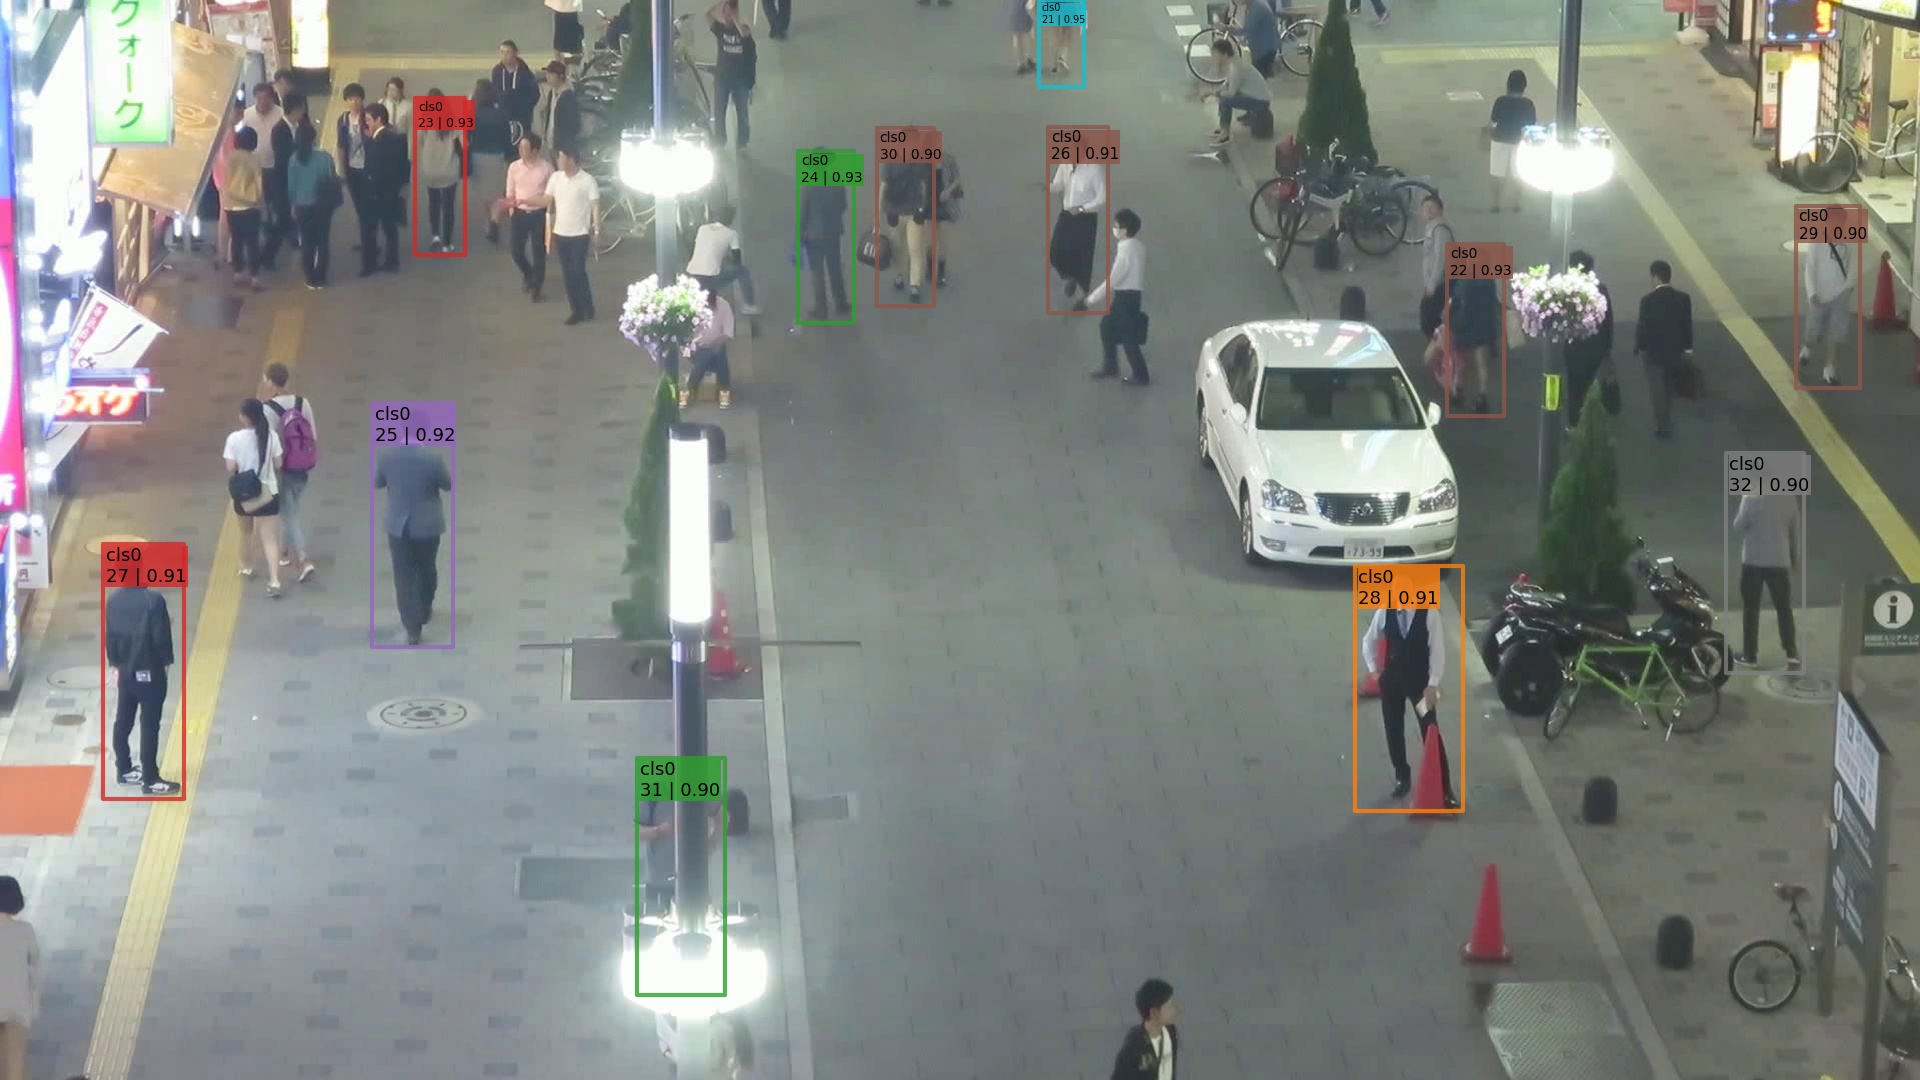
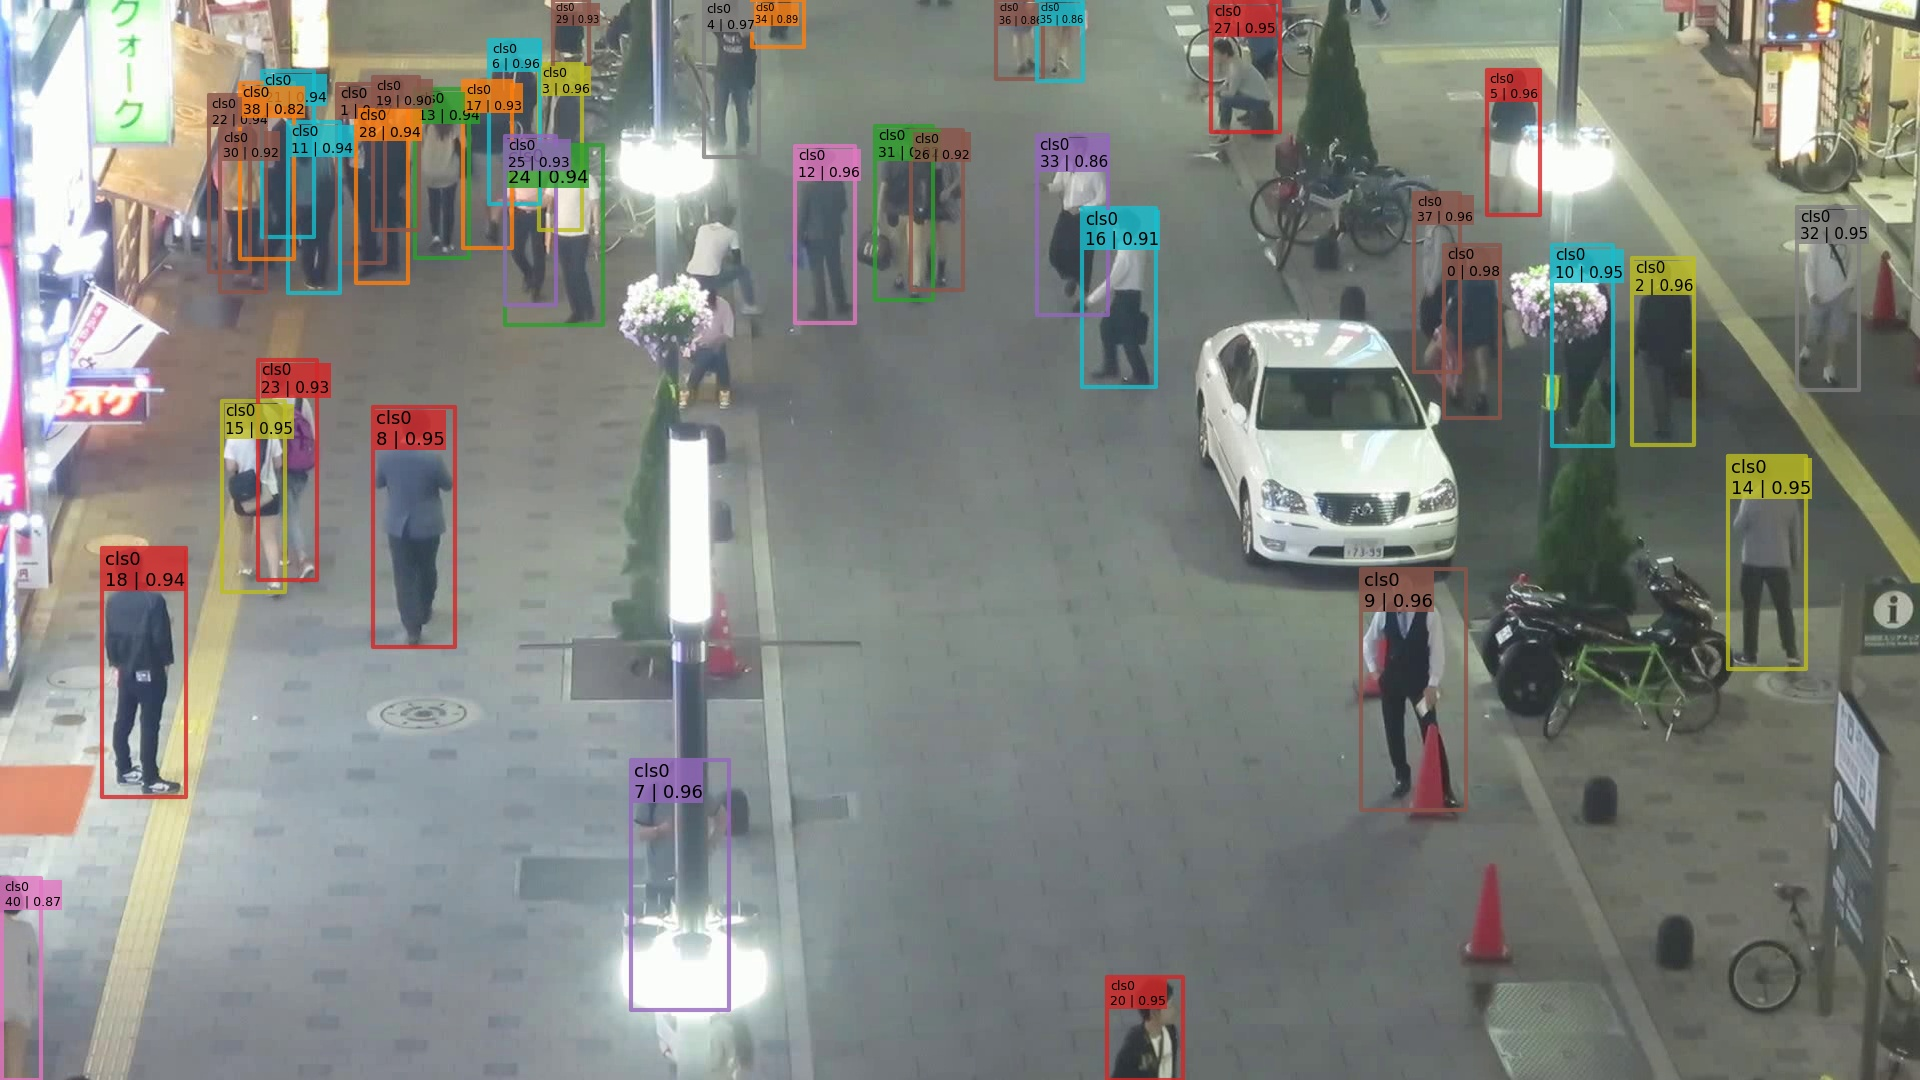
add mmyolo augmentation

diff --git a/configs/det/yolov7_l1_syncbn_fast_mot17.py b/configs/det/yolov7_l1_syncbn_fast_mot17.py
@@ -1,0 +1,260 @@
+_base_ = '../_base_/mmyolo_default_runtime.py'
+
+# parameters that often need to be modified
+img_scale = (1088, 1088)  # width, height
+
+# dataset settings
+data_root = 'data/MOT17/'
+dataset_type = 'YOLOv5CocoDataset'
+max_epochs = 30
+batch_size = 8
+train_num_workers = 4
+val_num_workers = 2
+save_epoch_intervals = 10
+persistent_workers = True
+
+# only on Val
+batch_shapes_cfg = dict(
+    type='BatchShapePolicy',
+    batch_size=1,
+    img_size=img_scale[0],
+    size_divisor=32,
+    extra_pad_ratio=0.5)
+
+# different from yolov5
+anchors = [
+    [(19, 27), (44, 40), (38, 94)],  # P3/8
+    [(96, 68), (86, 152), (180, 137)],  # P4/16
+    [(140, 301), (303, 264), (238, 542)],  # P5/32
+]
+strides = [8, 16, 32]
+num_det_layers = 3
+num_classes = 1
+
+# single-scale training is recommended to
+# be turned on, which can speed up training.
+env_cfg = dict(cudnn_benchmark=True)
+
+model = dict(
+    type='YOLODetector',
+    _scope_='mmyolo',
+    backbone=dict(
+        type='YOLOv7Backbone',
+        arch='L',
+        norm_cfg=dict(type='BN', momentum=0.03, eps=0.001),
+        act_cfg=dict(type='SiLU', inplace=True)),
+    neck=dict(
+        type='YOLOv7PAFPN',
+        block_cfg=dict(
+            type='ELANBlock',
+            middle_ratio=0.5,
+            block_ratio=0.25,
+            num_blocks=4,
+            num_convs_in_block=1),
+        upsample_feats_cat_first=False,
+        in_channels=[512, 1024, 1024],
+        # The real output channel will be multiplied by 2
+        out_channels=[128, 256, 512],
+        norm_cfg=dict(type='BN', momentum=0.03, eps=0.001),
+        act_cfg=dict(type='SiLU', inplace=True)),
+    bbox_head=dict(
+        type='YOLOv7Head',
+        head_module=dict(
+            type='YOLOv7HeadModule',
+            num_classes=num_classes,
+            in_channels=[256, 512, 1024],
+            featmap_strides=strides,
+            num_base_priors=3),
+        prior_generator=dict(
+            type='mmdet.YOLOAnchorGenerator',
+            base_sizes=anchors,
+            strides=strides),
+        # scaled based on number of detection layers
+        loss_cls=dict(
+            type='mmdet.CrossEntropyLoss',
+            use_sigmoid=True,
+            reduction='mean',
+            loss_weight=0),
+        loss_bbox=dict(
+            type='IoULoss',
+            iou_mode='ciou',
+            bbox_format='xywh',
+            reduction='mean',
+            loss_weight=0.1,
+            return_iou=True),
+        loss_obj=dict(
+            type='mmdet.CrossEntropyLoss',
+            use_sigmoid=True,
+            reduction='mean',
+            loss_weight=1.0),
+        obj_level_weights=[4., 1., 0.4],
+        # BatchYOLOv7Assigner params
+        prior_match_thr=4.,
+        simota_candidate_topk=10,
+        simota_iou_weight=3.0,
+        simota_cls_weight=1.0),
+    test_cfg=dict(
+        multi_label=False,
+        nms_pre=30000,
+        score_thr=0.01,
+        nms=dict(type='nms', iou_threshold=0.65),
+        max_per_img=300))
+
+pre_transform = [
+    dict(type='LoadImageFromFile'),
+    dict(type='LoadAnnotations', with_bbox=True)
+]
+
+mosiac4_pipeline = [
+    dict(
+        type='Mosaic',
+        img_scale=img_scale,
+        pad_val=114.0,
+        pre_transform=pre_transform),
+    dict(
+        type='YOLOv5RandomAffine',
+        max_rotate_degree=0.0,
+        max_shear_degree=0.0,
+        max_translate_ratio=0.2,  # note
+        scaling_ratio_range=(0.1, 2.0),  # note
+        # img_scale is (width, height)
+        border=(-img_scale[0] // 2, -img_scale[1] // 2),
+        border_val=(114, 114, 114)),
+]
+
+mosiac9_pipeline = [
+    dict(
+        type='Mosaic9',
+        img_scale=img_scale,
+        pad_val=114.0,
+        pre_transform=pre_transform),
+    dict(
+        type='YOLOv5RandomAffine',
+        max_rotate_degree=0.0,
+        max_shear_degree=0.0,
+        max_translate_ratio=0.2,  # note
+        scaling_ratio_range=(0.1, 2.0),  # note
+        # img_scale is (width, height)
+        border=(-img_scale[0] // 2, -img_scale[1] // 2),
+        border_val=(114, 114, 114)),
+]
+
+randchoice_mosaic_pipeline = dict(
+    type='RandomChoice',
+    transforms=[mosiac4_pipeline, mosiac9_pipeline],
+    prob=[0.8, 0.2])
+
+train_pipeline = [
+    *pre_transform,
+    randchoice_mosaic_pipeline,
+    dict(
+        type='YOLOv5MixUp',
+        alpha=8.0,  # note
+        beta=8.0,  # note
+        prob=0.15,
+        pre_transform=[*pre_transform, randchoice_mosaic_pipeline]),
+    dict(type='YOLOv5HSVRandomAug'),
+    dict(type='mmdet.RandomFlip', prob=0.5),
+    dict(
+        type='mmdet.PackDetInputs',
+        meta_keys=('img_id', 'img_path', 'ori_shape', 'img_shape', 'flip',
+                   'flip_direction'))
+]
+
+train_dataloader = dict(
+    batch_size=batch_size,
+    num_workers=train_num_workers,
+    persistent_workers=persistent_workers,
+    pin_memory=True,
+    sampler=dict(type='DefaultSampler', shuffle=True),
+    collate_fn=dict(type='yolov5_collate'),  # FASTER
+    dataset=dict(
+        type=dataset_type,
+        data_root=data_root,
+        ann_file='annotations/half-train_cocoformat.json',
+        data_prefix=dict(img='train/'),
+        metainfo=dict(classes=('pedestrian', )),
+        filter_cfg=dict(filter_empty_gt=False, min_size=32),
+        pipeline=train_pipeline))
+
+test_pipeline = [
+    dict(type='LoadImageFromFile', file_client_args=_base_.file_client_args),
+    dict(type='YOLOv5KeepRatioResize', scale=img_scale),
+    dict(
+        type='LetterResize',
+        scale=img_scale,
+        allow_scale_up=False,
+        pad_val=dict(img=114)),
+    dict(type='LoadAnnotations', with_bbox=True, _scope_='mmdet'),
+    dict(
+        type='mmdet.PackDetInputs',
+        meta_keys=('img_id', 'img_path', 'ori_shape', 'img_shape',
+                   'scale_factor', 'pad_param'))
+]
+
+val_dataloader = dict(
+    batch_size=1,
+    num_workers=val_num_workers,
+    persistent_workers=persistent_workers,
+    pin_memory=True,
+    drop_last=False,
+    sampler=dict(type='DefaultSampler', shuffle=False),
+    dataset=dict(
+        type=dataset_type,
+        data_root=data_root,
+        test_mode=True,
+        data_prefix=dict(img='train/'),
+        ann_file='annotations/half-val_cocoformat.json',
+        pipeline=test_pipeline,
+        batch_shapes_cfg=batch_shapes_cfg))
+
+test_dataloader = val_dataloader
+
+param_scheduler = None
+optim_wrapper = dict(
+    type='OptimWrapper',
+    optimizer=dict(
+        type='SGD',
+        lr=0.001,
+        momentum=0.937,
+        weight_decay=0.0005,
+        nesterov=True),
+    constructor='YOLOv7OptimWrapperConstructor')
+
+default_hooks = dict(
+    param_scheduler=dict(
+        type='YOLOv5ParamSchedulerHook',
+        scheduler_type='cosine',
+        lr_factor=0.01,  # note
+        max_epochs=max_epochs),
+    checkpoint=dict(
+        type='CheckpointHook',
+        save_param_scheduler=False,
+        interval=1,
+        save_best='auto',
+        max_keep_ckpts=3))
+
+val_evaluator = dict(
+    type='mmdet.CocoMetric',
+    proposal_nums=(100, 1, 10),  # Can be accelerated
+    ann_file=data_root + 'annotations/half-val_cocoformat.json',
+    metric='bbox')
+test_evaluator = val_evaluator
+
+train_cfg = dict(
+    type='EpochBasedTrainLoop',
+    max_epochs=max_epochs,
+    val_interval=save_epoch_intervals)
+
+custom_hooks = [
+    dict(
+        type='EMAHook',
+        ema_type='ExpMomentumEMA',
+        momentum=0.0001,
+        update_buffers=True,
+        strict_load=False,
+        priority=49)
+]
+
+val_cfg = dict(type='ValLoop')
+test_cfg = dict(type='TestLoop')

diff --git a/configs/_base_/models/yolov7_l1_syncbn_fast.py b/configs/_base_/models/yolov7_l1_syncbn_fast.py
@@ -3,9 +3,9 @@ img_scale = (1088, 1088)  # width, height
 
 # different from yolov5
 anchors = [
-    [(12, 16), (19, 36), (40, 28)],  # P3/8
-    [(36, 75), (76, 55), (72, 146)],  # P4/16
-    [(142, 110), (192, 243), (459, 401)]  # P5/32
+    [(19, 27), (44, 40), (38, 94)],  # P3/8
+    [(96, 68), (86, 152), (180, 137)],  # P4/16
+    [(140, 301), (303, 264), (238, 542)],  # P5/32
 ]
 strides = [8, 16, 32]
 num_det_layers = 3
@@ -17,7 +17,6 @@ model = dict(
         mean=[0., 0., 0.],
         std=[255., 255., 255.],
         bgr_to_rgb=True,
-        rgb_to_bgr=False,
         pad_size_divisor=32),
     detector=dict(
         type='YOLODetector',
@@ -53,24 +52,6 @@ model = dict(
                 type='mmdet.YOLOAnchorGenerator',
                 base_sizes=anchors,
                 strides=strides),
-            # scaled based on number of detection layers
-            loss_cls=dict(
-                type='mmdet.CrossEntropyLoss',
-                use_sigmoid=True,
-                reduction='mean',
-                loss_weight=0.3 * (num_classes / 80 * 3 / num_det_layers)),
-            loss_bbox=dict(
-                type='IoULoss',
-                iou_mode='ciou',
-                bbox_format='xywh',
-                reduction='mean',
-                loss_weight=0.05 * (3 / num_det_layers),
-                return_iou=True),
-            loss_obj=dict(
-                type='mmdet.CrossEntropyLoss',
-                use_sigmoid=True,
-                reduction='mean',
-                loss_weight=0.7 * ((img_scale[0] / 640)**2 * 3 / num_det_layers)),
             obj_level_weights=[4., 1., 0.4],
             # BatchYOLOv7Assigner params
             prior_match_thr=4.,
@@ -81,5 +62,5 @@ model = dict(
             multi_label=False,
             nms_pre=30000,
             score_thr=0.01,
-            nms=dict(type='nms', iou_threshold=0.65),
+            nms=dict(type='nms', iou_threshold=0.5),
             max_per_img=300)))

diff --git a/configs/_base_/mmyolo_default_runtime.py b/configs/_base_/mmyolo_default_runtime.py
@@ -1,0 +1,28 @@
+default_scope = 'mmyolo'
+
+default_hooks = dict(
+    timer=dict(type='IterTimerHook'),
+    logger=dict(type='LoggerHook', interval=50),
+    param_scheduler=dict(type='ParamSchedulerHook'),
+    checkpoint=dict(type='CheckpointHook', interval=1),
+    sampler_seed=dict(type='DistSamplerSeedHook'),
+    visualization=dict(type='mmdet.DetVisualizationHook'))
+
+env_cfg = dict(
+    cudnn_benchmark=False,
+    mp_cfg=dict(mp_start_method='fork', opencv_num_threads=0),
+    dist_cfg=dict(backend='nccl'),
+)
+
+vis_backends = [dict(type='LocalVisBackend')]
+visualizer = dict(
+    type='mmdet.DetLocalVisualizer',
+    vis_backends=vis_backends,
+    name='visualizer')
+log_processor = dict(type='LogProcessor', window_size=50, by_epoch=True)
+
+log_level = 'INFO'
+load_from = None
+resume = False
+
+file_client_args = dict(backend='disk')

diff --git a/configs/mot/deepsort/my_config.py b/configs/mot/deepsort/my_config.py
@@ -1,5 +1,5 @@
 _base_ = [
-    '../../_base_/models/yolov7_l_syncbn_fast.py',
+    '../../_base_/models/yolov7_l1_syncbn_fast.py',
     '../../_base_/datasets/mot_challenge.py', 
     '../../_base_/default_runtime.py'
 ]
@@ -15,7 +15,7 @@ model = dict(
         init_cfg=dict(
             type='Pretrained',
             checkpoint=  # noqa: E251
-            'work_dirs/yolov7_l_syncbn_fast_mot17/epoch_2.pth'  # noqa: E501
+            'work_dirs/yolov7_l_syncbn_fast_mot17/epoch_30.pth'  # noqa: E501
         )),
     motion=dict(type='KalmanFilter', center_only=False),
     reid=dict(
